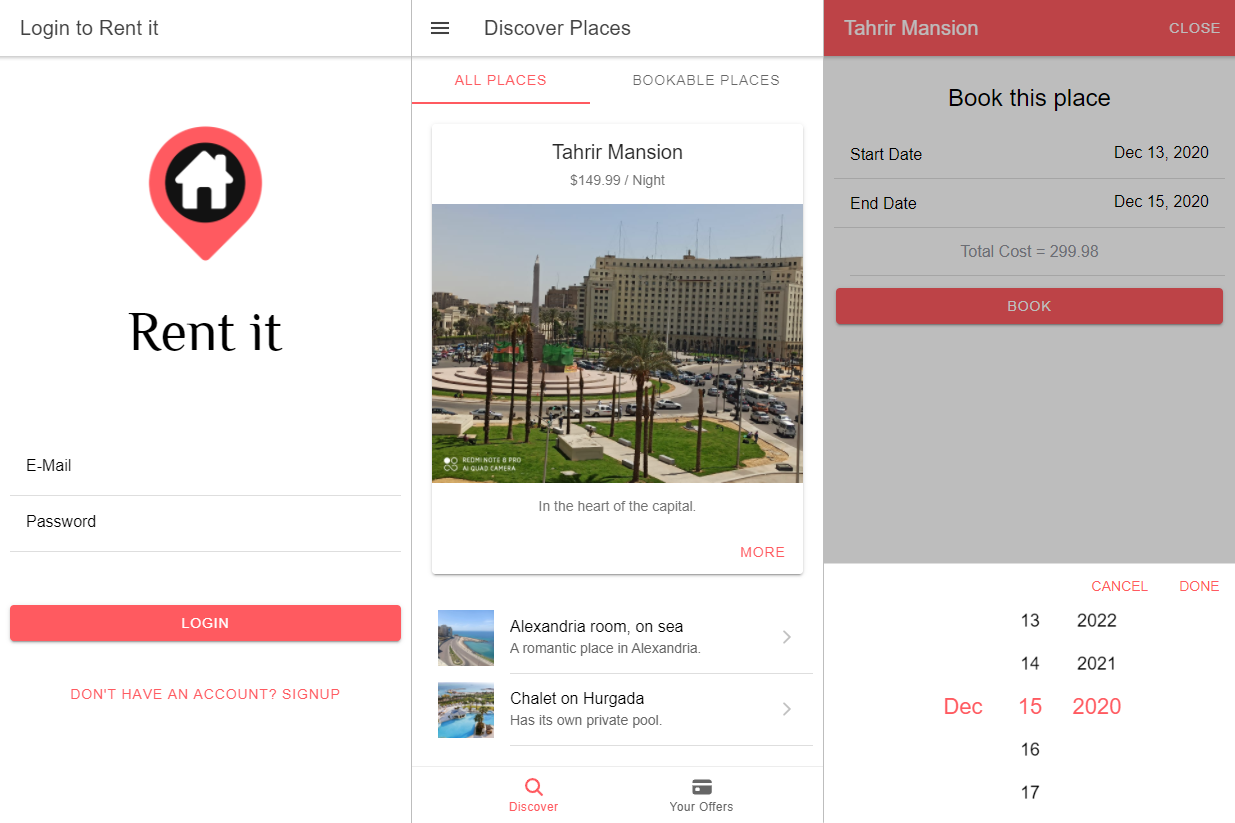
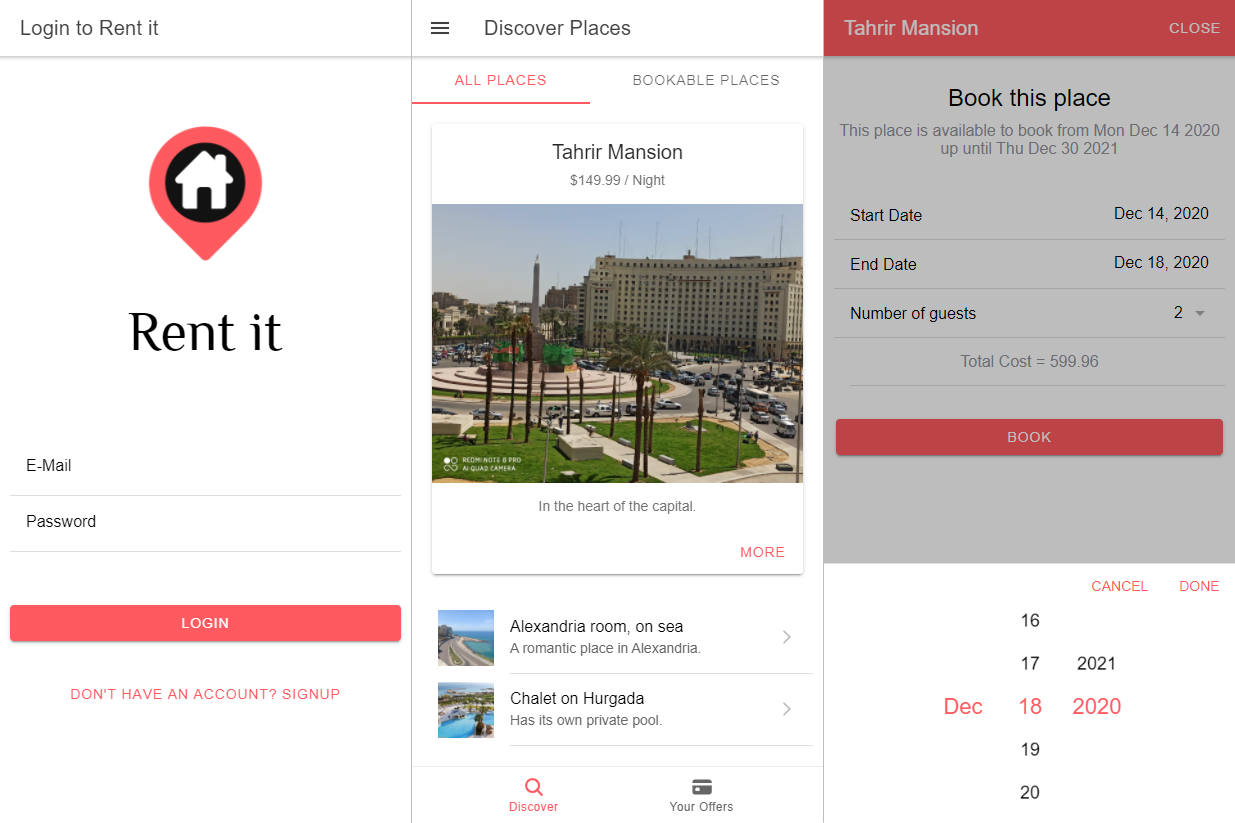
show time limits on booking page if the place has them

diff --git a/src/app/bookings/create-booking/create-booking.component.html b/src/app/bookings/create-booking/create-booking.component.html
@@ -1,46 +1,75 @@
 <ion-header>
-  <ion-toolbar color="primary">
-    <ion-title>{{place.title}}</ion-title>
-    <ion-buttons slot="primary">
-      <ion-button (click)="onCancel()">Close</ion-button>
-    </ion-buttons>
-  </ion-toolbar>
+	<ion-toolbar color="primary">
+		<ion-title>{{ place.title }}</ion-title>
+		<ion-buttons slot="primary">
+			<ion-button (click)="onCancel()">Close</ion-button>
+		</ion-buttons>
+	</ion-toolbar>
 </ion-header>
 <ion-content>
-  <ion-grid>
-    <form #f="ngForm" (ngSubmit)="onSubmit(f)">
-      <ion-row class="ion-text-center">
-        <ion-col size-md="8" offset-md="2">
-          <h2>Book this place</h2>
-          <ion-list>
-            <ion-item>
-              <ion-label>Start Date</ion-label>
-              <ion-datetime (ionChange)="onStartDateChange($event)" [min]="startDateMin.toISOString()"
-                [max]="startDateMax.toISOString()" placeholder="Select Start Date" ngModel name="startdate"
-                required #startDateCtrl="ngModel"></ion-datetime>
-            </ion-item>
-            <ion-item>
-              <ion-label>End Date</ion-label>
-              <ion-datetime (ionChange)="onEndDateChange($event)" [min]="endDateMin.toISOString()" [max]="endDateMax.toISOString()"
-                placeholder="Select End Date" ngModel name="enddate" required #endDateCtrl></ion-datetime>
-            </ion-item>
-            <ion-item>
-              <ion-label>Number of guests</ion-label>
-              <ion-select ngModel name="numberofguests" [ngModel]="'2'" required >
-                <ion-select-option value="1">1</ion-select-option>
-                <ion-select-option value="2">2</ion-select-option>
-                <ion-select-option value="3">3</ion-select-option>
-                <ion-select-option value="4">4</ion-select-option>
-              </ion-select>
-            </ion-item>
-            <ion-item class="ion-text-center">
-              <ion-label color="medium">{{currentCostText}}</ion-label>
-            </ion-item>
-          </ion-list>
-          <ion-button type="submit" expand="block" (click)="onBookPlace()">Book</ion-button>
-        </ion-col>
-      </ion-row>
-    </form>
-  </ion-grid>
-
+	<ion-grid>
+		<form #f="ngForm" (ngSubmit)="onSubmit(f)">
+			<ion-row class="ion-text-center">
+				<ion-col size-md="8" offset-md="2">
+					<h2>Book this place</h2>
+					<ion-text color="medium" *ngIf="place.startDate || place.endDate"
+						>This place is available to book
+						<span *ngIf="place.startDate"
+							>from {{ place.startDate.toDateString() }} </span
+						><span *ngIf="place.endDate"
+							>up until {{ place.endDate.toDateString() }}</span
+						></ion-text
+					>
+					<ion-list>
+						<ion-item>
+							<ion-label>Start Date</ion-label>
+							<ion-datetime
+								(ionChange)="onStartDateChange($event)"
+								[min]="startDateMin.toISOString()"
+								[max]="startDateMax.toISOString()"
+								placeholder="Select Start Date"
+								ngModel
+								name="startdate"
+								required
+								#startDateCtrl="ngModel"
+							></ion-datetime>
+						</ion-item>
+						<ion-item>
+							<ion-label>End Date</ion-label>
+							<ion-datetime
+								(ionChange)="onEndDateChange($event)"
+								[min]="endDateMin.toISOString()"
+								[max]="endDateMax.toISOString()"
+								placeholder="Select End Date"
+								ngModel
+								name="enddate"
+								required
+								#endDateCtrl
+							></ion-datetime>
+						</ion-item>
+						<ion-item>
+							<ion-label>Number of guests</ion-label>
+							<ion-select
+								ngModel
+								name="numberofguests"
+								[ngModel]="'2'"
+								required
+							>
+								<ion-select-option value="1">1</ion-select-option>
+								<ion-select-option value="2">2</ion-select-option>
+								<ion-select-option value="3">3</ion-select-option>
+								<ion-select-option value="4">4</ion-select-option>
+							</ion-select>
+						</ion-item>
+						<ion-item class="ion-text-center">
+							<ion-label color="medium">{{ currentCostText }}</ion-label>
+						</ion-item>
+					</ion-list>
+					<ion-button type="submit" expand="block" (click)="onBookPlace()"
+						>Book</ion-button
+					>
+				</ion-col>
+			</ion-row>
+		</form>
+	</ion-grid>
 </ion-content>

diff --git a/src/app/places/place.model.ts b/src/app/places/place.model.ts
@@ -1,12 +1,13 @@
 export class Place {
-    public startDate: Date
-    public endDate: Date
+
 	constructor(
 		public id: string,
 		public title: string,
 		public description: string,
 		public imageUrl: string,
-        public price: number,
+		public price: number,
+		public startDate: Date = undefined,
+		public endDate: Date = undefined
 
 	) {}
 }

diff --git a/src/app/places/places.service.ts b/src/app/places/places.service.ts
@@ -11,7 +11,9 @@ export class PlacesService {
 			'Tahrir Mansion',
 			'In the heart of the capital.',
 			'https://img.youm7.com/ArticleImgs/2020/5/11/192112-WhatsApp-Image-2020-05-11-at-13.45.15-(1).jpeg',
-			149.99
+			149.99,
+			new Date(Date.now()),
+			new Date('2021-12-30')
     ),
     new Place(
 			'p2',

diff --git a/src/app/bookings/create-booking/create-booking.component.scss b/src/app/bookings/create-booking/create-booking.component.scss
@@ -1,0 +1,3 @@
+ion-list{
+    margin: 25px 0
+}
